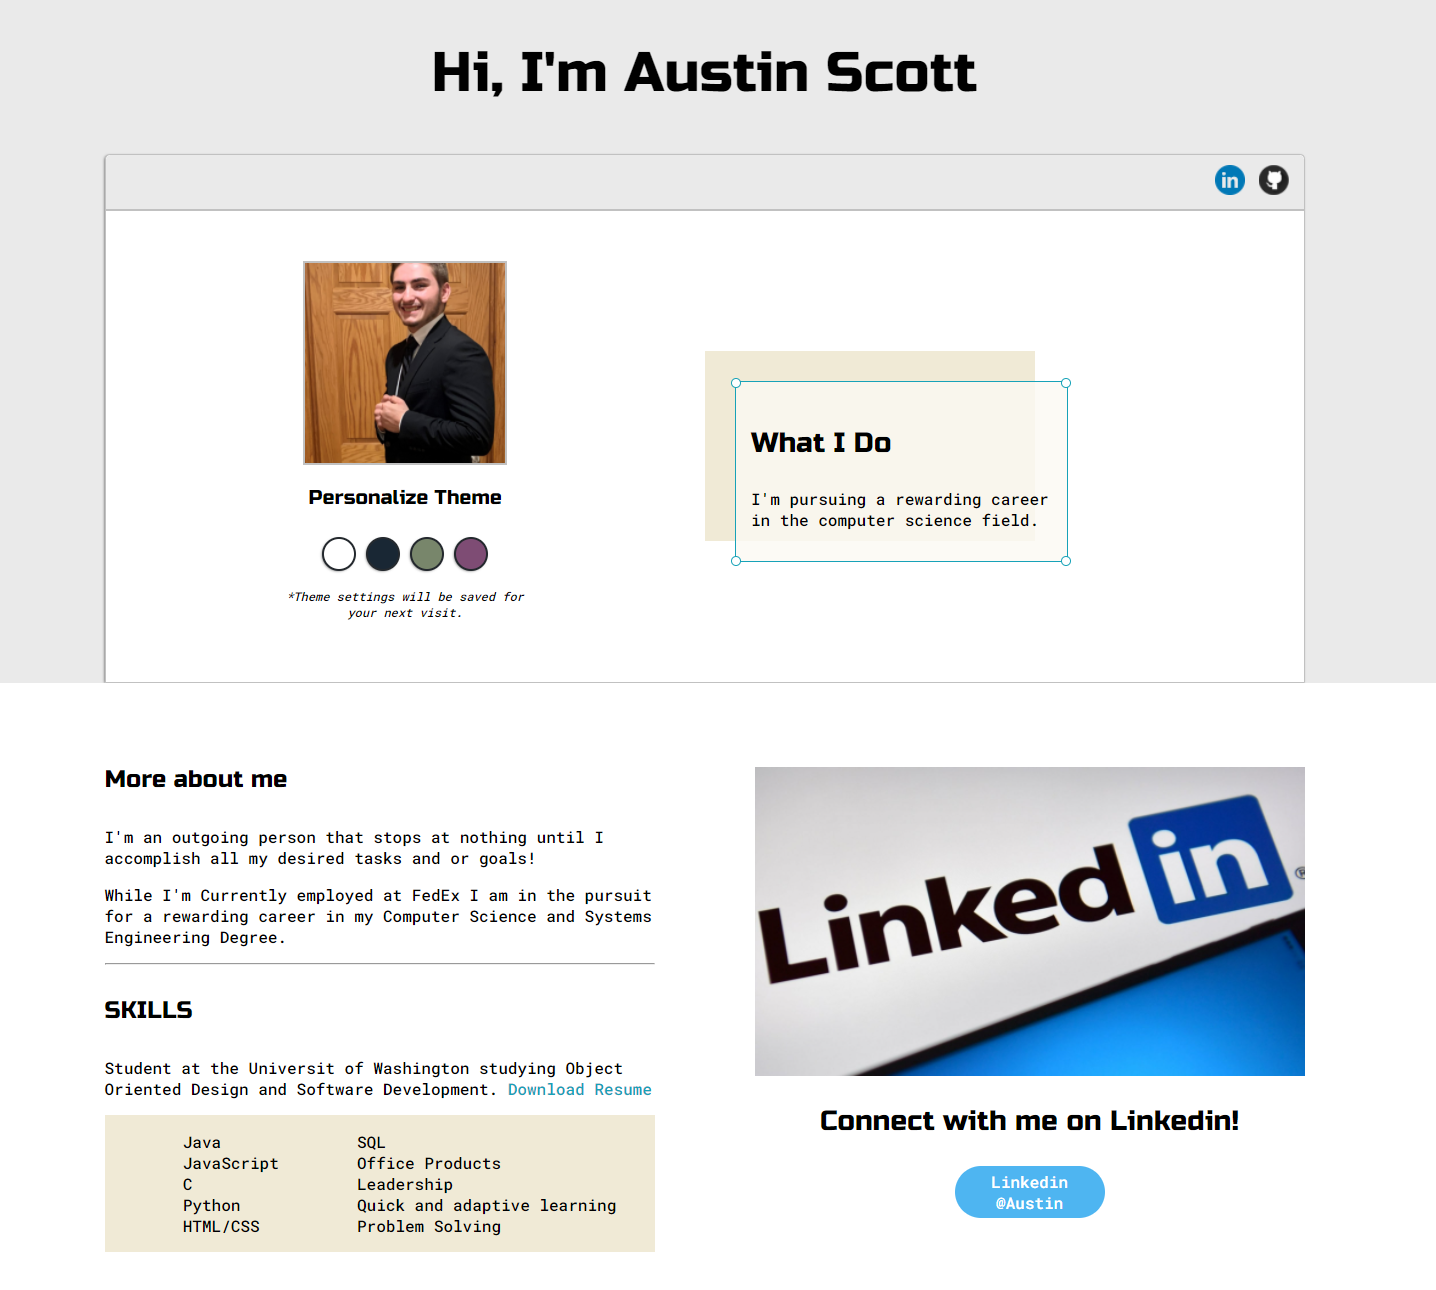
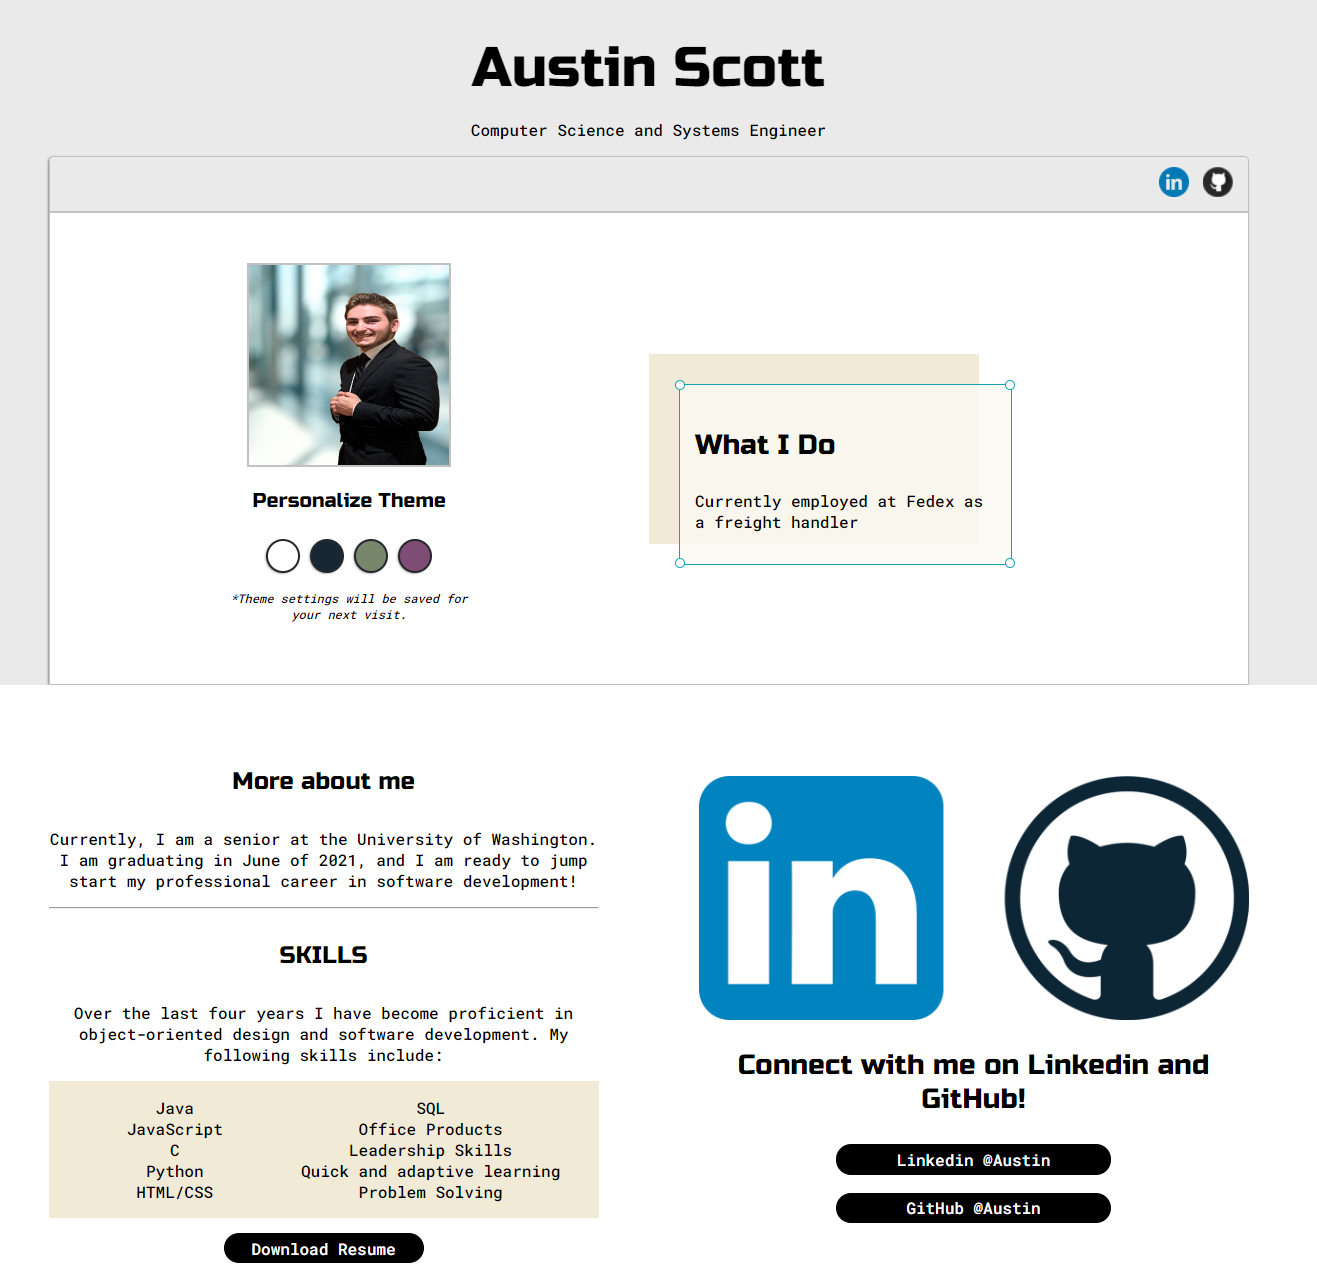
init

diff --git a/index.html b/index.html
@@ -5,11 +5,16 @@
         <meta name="viewport" content="width=device-width,
         initial-scale=1, maximum-scale=1, minimum-scale=1" />
 
+        <!--<link rel="preconnect" href="https://fonts.gstatic.com">
+        <link href="https://fonts.googleapis.com/css2?family=Russo+One&display=swap" rel="stylesheet">-->
         <link rel="preconnect" href="https://fonts.gstatic.com">
-        <link href="https://fonts.googleapis.com/css2?family=Russo+One&display=swap" rel="stylesheet">
+        <link href="https://fonts.googleapis.com/css2?family=Roboto:wght@700&display=swap" rel="stylesheet">
 
         <link rel="preconnect" href="https://fonts.gstatic.com">
+        <link href="https://fonts.googleapis.com/css2?family=Roboto:wght@400;700&display=swap" rel="stylesheet">
+        <!--<link rel="preconnect" href="https://fonts.gstatic.com">
         <link href="https://fonts.googleapis.com/css2?family=Roboto+Mono:wght@500&family=Russo+One&display=swap" rel="stylesheet">
+        -->
 
         <link rel="stylesheet" type="text/css" href="default.css">
 
@@ -77,7 +82,7 @@
 
                         <hr>
 
-                        <h4>SKILLS</h4>
+                        <h4>Skills</h4>
                         <p>Over the last four years I have become proficient in 
                             object-oriented design and software development. 
                             My following skills include:</p>
@@ -114,7 +119,7 @@
 
         <section class="s1">
             <div class="main-container">
-                <h3 style="text-align: center;">Some of my projects</h3>
+                <h3 style="text-align: center;">View my projects</h3>
                 <div class="post-wrapper">
                     <div>
                         <div class="post">
@@ -136,7 +141,7 @@
                                 <h6 class="post-title">Desktop Application</h6>
                                 <p class="post-intro">This is a desktop application intended to help home owners
                                     with file storage pertaining to certain parts of a house. Coded in Java.</p>
-                                <a target="_blank" href=https://github.com/Austinx75/TCSS-360>View on GitHub</a>
+                                <a target="_blank" href="https://github.com/Austinx75/TCSS-360">View on GitHub</a>
                             </div>
                         </div>
                     </div>
@@ -145,7 +150,7 @@
                             <img class ="thumbnail" src="images/project3.png">
                             <div class="post-preview">
                                 <h6 class="post-title">My Portfolio Project</h6>
-                                <p class="post-intro">This is show casing the website you are on now! It was a project
+                                <p class="post-intro">This is show casing the website you are on now! It was a personal project
                                     to help show my skills in HTML, CSS, and JavaScript!</p>
                             </div>
                         </div>
@@ -157,7 +162,49 @@
 
         <section class="s2">
             <div class="main-container">
-                <h3 style="text-align: center;">Education</h3>
+                <div class="education-work">
+                    <div class="left-column-education">
+                        <div class="title"><h3 id="underline">Education</h3></div>
+                        <div class="info">
+                            <h3 style="margin-bottom:.25px;">University of Washington</h3>
+                            <p style="font-size:12px;">Computer Science and Systems</p>
+                            <div class="more-info">
+                                <p>Discrete Structures, Data Structures, Data Algorithms, Database Systems Design, Computer Operating Systems, and Various Software Development Courses</p>
+                            </div>
+                        </div>
+
+                        <div class="info">
+                            <h3 style="margin-bottom:.25px;">University of Washington</h3>
+                            <p style="font-size:12px;">Math Minor</p>
+                            <div class="more-info">
+                                <p>Calculus(1-3), Differential Equations, Linear Algebra, Physics, and Statistics</p>
+                            </div>
+                        </div>
+                    </div>
+
+                    <div class="right-column-education">
+                        <div class="title"><h3 id="underline">Employment</h3></div>
+                        <div class="info">
+                            <h3 style="margin-bottom:.25px;">FedEx</h3>
+                            <p style="font-size:12px; display:inline;">Freight Handler &#x2022 SEP 2019 - Present</p> 
+                            <div class="more-info">
+                                <p>As a cetified forklift operator, my responsibilities included are unloading and loading of various freight trailers
+                                    in a timely manner, and always ensuring the quality of the freight and equipment around me.</p>   
+                            </div>                            
+                        </div>
+
+                        <div class="info">
+                            <h3 style="margin-bottom:.25px;">Coastal Farm and Ranch</h3>
+                            <p style="font-size:12px; display:inline;">Warehouse Associate &#x2022 JUN 2017 - SEP 2019</p> 
+                            <div class="more-info">
+                                <p>As a warehouse associate, my roles and responsibilities included being a certified propane dispenser and licensed forklift operator.
+                                    Throughout my employment I  became a propane and forklift operations crew trainer, and
+                                    shipping/receiving load specialist (customer and commercial vehicles).</p>   
+                            </div>                            
+                        </div>
+
+                    </div>
+                </div>
 
 
             </div>

diff --git a/default.css b/default.css
@@ -26,13 +26,15 @@ body *{
 
 h1,h2,h3,h4,h5,h6, strong{
     color: var(--mainText);
-    font-family: 'Russo One', sans-serif;
-    font-weight:500;
+    /*font-family: 'Russo One', sans-serif;*/
+    font-family: 'Roboto', sans-serif;
+    /*font-weight:500;*/
 }
 
 p, li, span, label, input, textarea{
     color: var(--mainText);
-    font-family: 'Roboto Mono', monospace;
+    /*font-family: 'Roboto Mono', monospace;*/
+    font-family: 'Roboto', sans-serif;
 }
 
 a{
@@ -265,6 +267,7 @@ h6 {font-size: 16px;}
     box-shadow: -1px 1px 3px -1px rgba(0,0,0,0.75);
 }
 
+
 .thumbnail{
     display: block;
     width: 100%;
@@ -276,6 +279,8 @@ h6 {font-size: 16px;}
     background-color: #fff;
     padding: 15px;
 }
+
+
 
 .post-title{
     color:black;
@@ -338,7 +343,6 @@ a.button{
     border-radius:2em;
     box-sizing: border-box;
     text-decoration:none;
-    font-family: 'Roboto Mono', monospace;
     font-weight:300;
     color:#FFFFFF;
     background-color: var(--buttonColor);
@@ -356,7 +360,6 @@ a.button1{
     border-radius:2em;
     box-sizing: border-box;
     text-decoration:none;
-    font-family: 'Roboto Mono', monospace;
     font-weight:300;
     color:#FFFFFF;
     background-color:var(--buttonColor);
@@ -380,7 +383,6 @@ a.button1:hover{
 }
 
 #preview-shadow-contact{
-    margin: 50px;
     background-color: var(--previewShadow);
     width: 200px;
     height: 130px;
@@ -428,6 +430,7 @@ a.button1:hover{
     display: block;
     margin: 0 auto;
     padding-top: 50px;
+    padding-bottom: 50px;
     height: 200px;
     width: 200px;
     object-fit: cover;
@@ -437,6 +440,58 @@ a.button1:hover{
 #contact-image:hover{
     height: 215px;
     width: 215px;
+}
+
+.education-work{
+    grid-template-columns: 1fr 1fr;
+    display: grid;
+    
+    /*grid-template-rows: 3em 30em;*/
+    grid-template-areas: 
+        'left-column-education right-column-education'
+    ;
+}
+
+.title{
+    text-align: center;
+}
+
+.left-column-education{
+    grid-area: left-column-education;
+    padding-top:5px;
+    padding-bottom: 5px;
+    /*border: 1px dashed lightcoral;*/
+}
+
+.right-column-education{
+    grid-area: right-column-education;
+    padding-top: 5px;
+    padding-bottom: 5px;
+    /*border: 1px dashed lightcoral;*/
+}
+
+.info{
+    text-align:center;
+    margin-top: 20px;
+    padding-top:10px;
+    padding-bottom: 15px;;
+    margin-left: 40px;
+    margin-right: 40px;
+    background-color: var(--previewShadow);
+}
+
+
+
+.more-info{
+    text-align:left;
+    padding-left: 30px;
+    background-color: var(--previewShadow);
+}
+
+
+#underline{
+    text-decoration:underline;
+    text-decoration-color: var(--buttonColor);
 }
 
 
@@ -462,6 +517,13 @@ a.button1:hover{
             'nav-wrapper-contact'
             'left-column'
             'right-column'
+        ;
+    }
+    .education-work{
+        grid-template-columns: 1fr;
+        grid-template-areas: 
+            'left-column-education'
+            'right-column-education'
         ;
     }
     .right-column{
